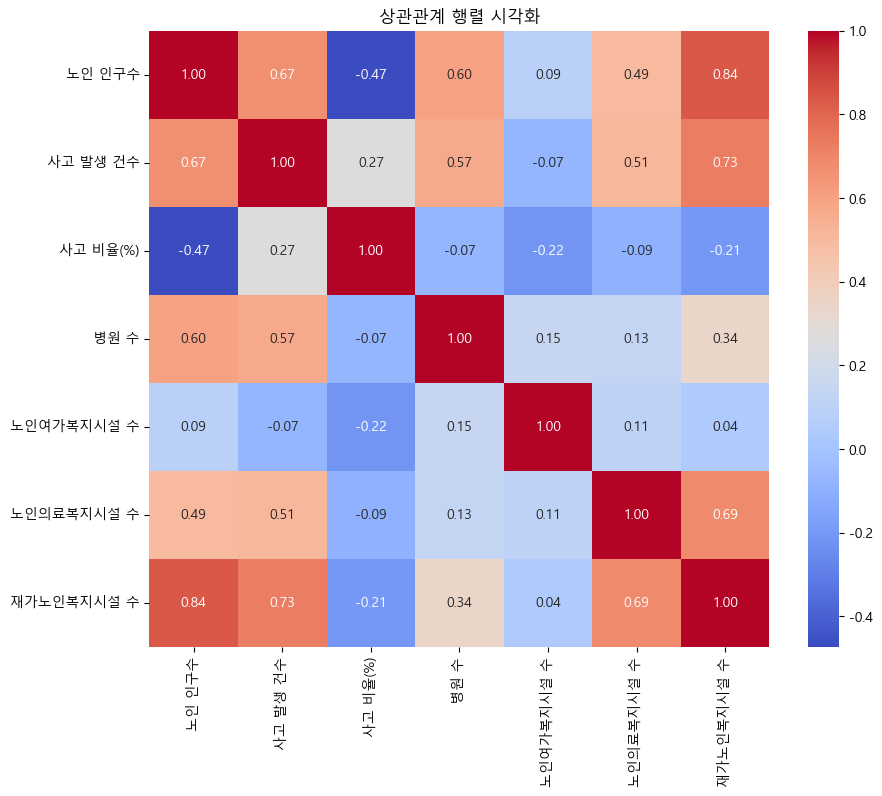
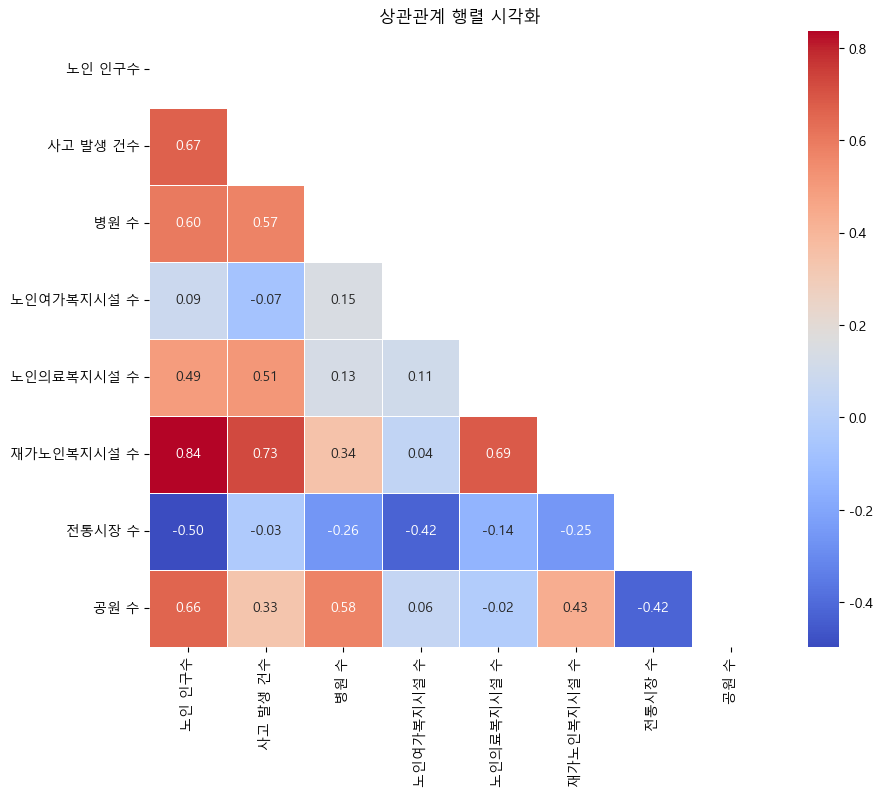
발표전 최종수정

diff --git a/src/scenes/oldman/Oldindicator.jsx b/src/scenes/oldman/Oldindicator.jsx
@@ -401,10 +401,10 @@ const Oldindicator = () => {
               gridAutoRows="170px"
               gap="20px"
             >
-                            {/* ROW 2 */}
-                            <Box
+              {/* 상관관계 시각화 - 전체 컬럼의 절반을 차지하도록 조정 */}
+              <Box
                 gridColumn="span 9"
-                gridRow="span 2"
+                gridRow="span 4" // 상관관계 시각화를 두 행의 공간을 차지하도록 조정
                 backgroundColor={colors.primary[400]}
               >
                 <img
@@ -415,6 +415,8 @@ const Oldindicator = () => {
                   style={{ cursor: "pointer" }}
                 />
               </Box>
+
+              {/* 오른쪽 상단 이미지 */}
               <Box
                 gridColumn="span 9"
                 gridRow="span 2"
@@ -429,22 +431,7 @@ const Oldindicator = () => {
                 />
               </Box>
 
-              {/* ROW 3:  뭐 원형 그래프? */}
-              <Box
-                gridColumn="span 9"
-                gridRow="span 2"
-                backgroundColor={colors.primary[400]}
-              >
-                <img
-                  alt="전체 구별 실제 발생건수 대비 예측사고 발생건수"
-                  width="100%"
-                  height="100%"
-                  src="/oldimg/전체 구별 실제 발생건수 대비 예측사고 발생건수.png"
-                  style={{ cursor: "pointer" }}
-                />
-              </Box>
-              {/*    Sales Quantity*/}
-
+              {/* 오른쪽 하단 이미지 */}
               <Box
                 gridColumn="span 9"
                 gridRow="span 2"
@@ -458,7 +445,7 @@ const Oldindicator = () => {
                   style={{ cursor: "pointer" }}
                 />
               </Box>
-              </Box>
+            </Box>
           </div>
         </Box>
       )}

diff --git a/src/components/MapForOld.jsx b/src/components/MapForOld.jsx
@@ -82,9 +82,8 @@ const MapForOld = () => {
     );
     setSelectedRegion(selectedData);
 
-    layer
-      .bindPopup(
-        `<b>${geoJsonFeature.properties.name}</b><br>
+    layer.bindPopup(
+      `<b>${geoJsonFeature.properties.name}</b><br>
        노인 인구수: ${selectedData["노인 인구수"].toLocaleString()}<br>
        사고 발생 건수: ${selectedData["사고 발생 건수"]}<br>
        사고 비율(%): ${selectedData["사고 비율(%)"].toFixed(2)}<br>
@@ -94,8 +93,8 @@ const MapForOld = () => {
        재가노인복지시설 수: ${selectedData["재가노인복지시설 수"]}<br>
        전통시장 수: ${selectedData["전통시장 수"]}<br>
        공원 수: ${selectedData["공원 수"]}`
-      )
-      .openPopup();
+    );
+    // .openPopup();
   };
 
   return (
@@ -131,8 +130,8 @@ const MapForOld = () => {
       </div>
       <MapContainer
         center={[37.5665, 126.978]}
-        zoom={11}
-        style={{ width: "70%", height: "500px" }}
+        zoom={12}
+        style={{ width: "70%", height: "1000px" }}
       >
         <TileLayer url="https://{s}.tile.openstreetmap.org/{z}/{x}/{y}.png" />
         {geoJsonData && accidentData && (

diff --git a/src/scenes/global/Sidebar.jsx b/src/scenes/global/Sidebar.jsx
@@ -116,10 +116,11 @@ const Sidebar = () => {
             </Box>
           )}
 
+          {/* 위 */}
           <Box paddingLeft={isCollapsed ? undefined : "10%"}>
             <Item
-              title="Dashboard"
-              to={isDarkmode ? "/" : "/oldManMap"}
+              title={isDarkmode ? "Dashboard" : "상관관계 분석 및 예측결과"}
+              to={isDarkmode ? "/geography" : "/oldindicator"}
               icon={<HomeOutlinedIcon />}
               selected={selected}
               setSelected={setSelected}
@@ -156,9 +157,10 @@ const Sidebar = () => {
               setSelected={setSelected}
             />
 
+            {/* 밑 */}
             <Item
-              title={isDarkmode ? "지표" : "상관관계 분석 및 예측결과"}
-              to={isDarkmode ? "/geography" : "/oldindicator"}
+              title="지도"
+              to={isDarkmode ? "/" : "/oldManMap"}
               icon={<MapOutlinedIcon />}
               selected={selected}
               setSelected={setSelected}

diff --git a/src/scenes/oldman/Oldchart2.jsx b/src/scenes/oldman/Oldchart2.jsx
@@ -389,7 +389,7 @@ const Oldchart2 = () => {
             >
               <Box>
                 <Header
-                  title="2020 - 2022서울시 노인 보행자 교통사고"
+                  title="서울시 노인 보행자 교통사고"
                   subtitle="3년간의 노인 남성/여성 보행자 사고의 피해 분석"
                 />
               </Box>

diff --git a/src/scenes/oldman/Oldchart1.jsx b/src/scenes/oldman/Oldchart1.jsx
@@ -389,7 +389,7 @@ const Oldchart1 = () => {
             >
               <Box>
                 <Header
-                  title="2020 - 2022서울시 노인 보행자 교통사고"
+                  title="서울시 노인 보행자 교통사고"
                   subtitle="3년간의 노인 보행자 사고의 시간대 분석"
                 />
               </Box>
